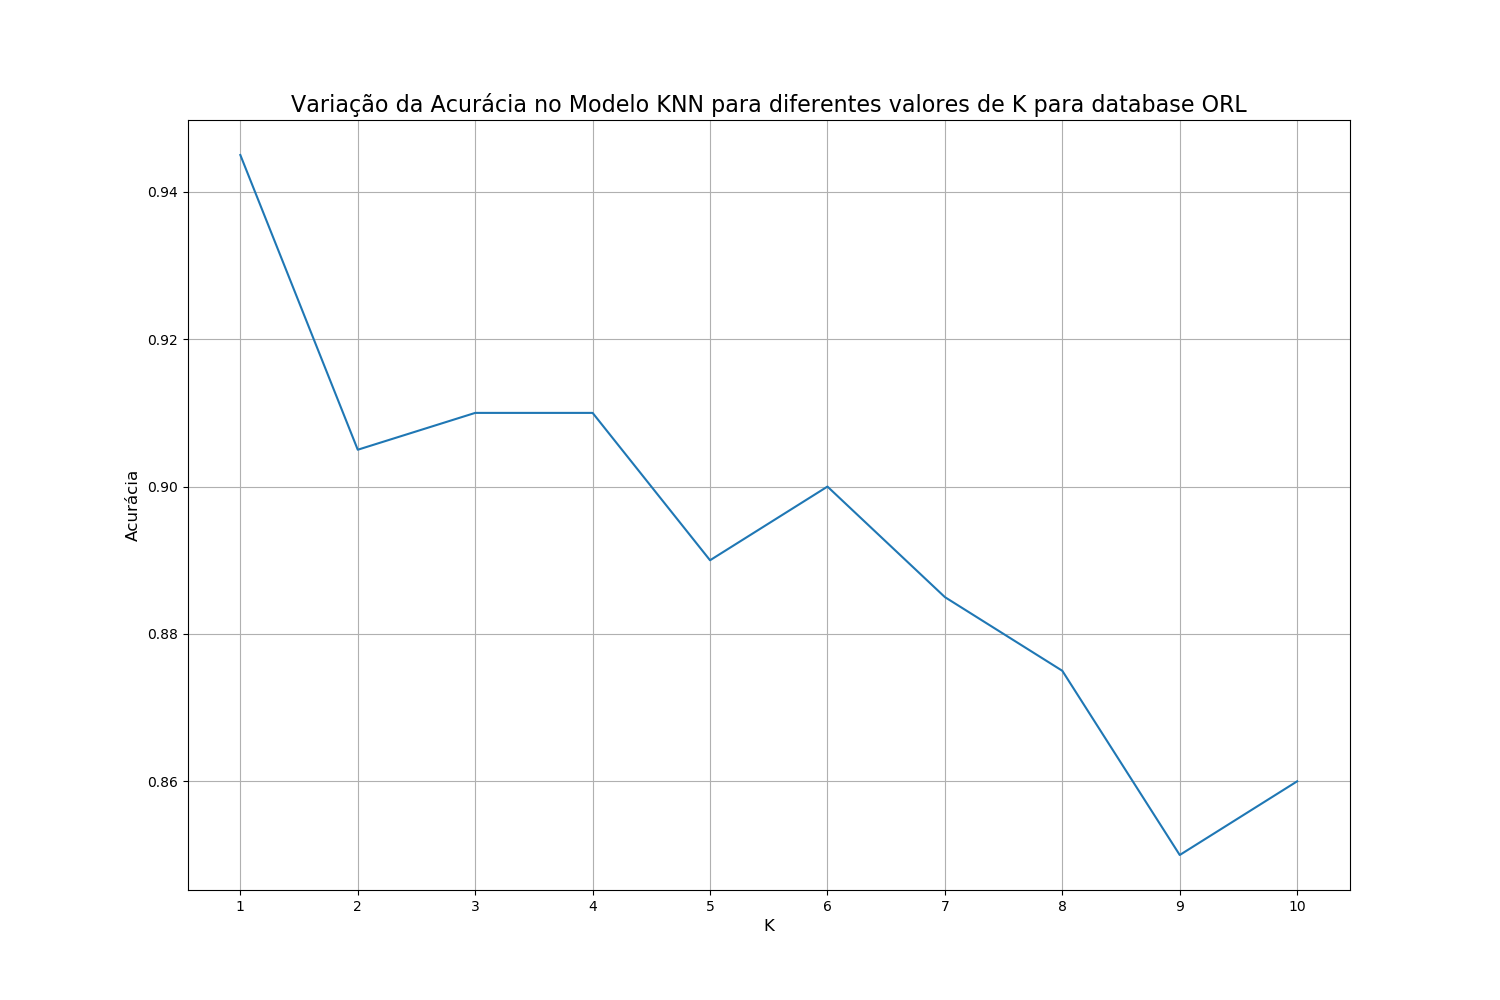
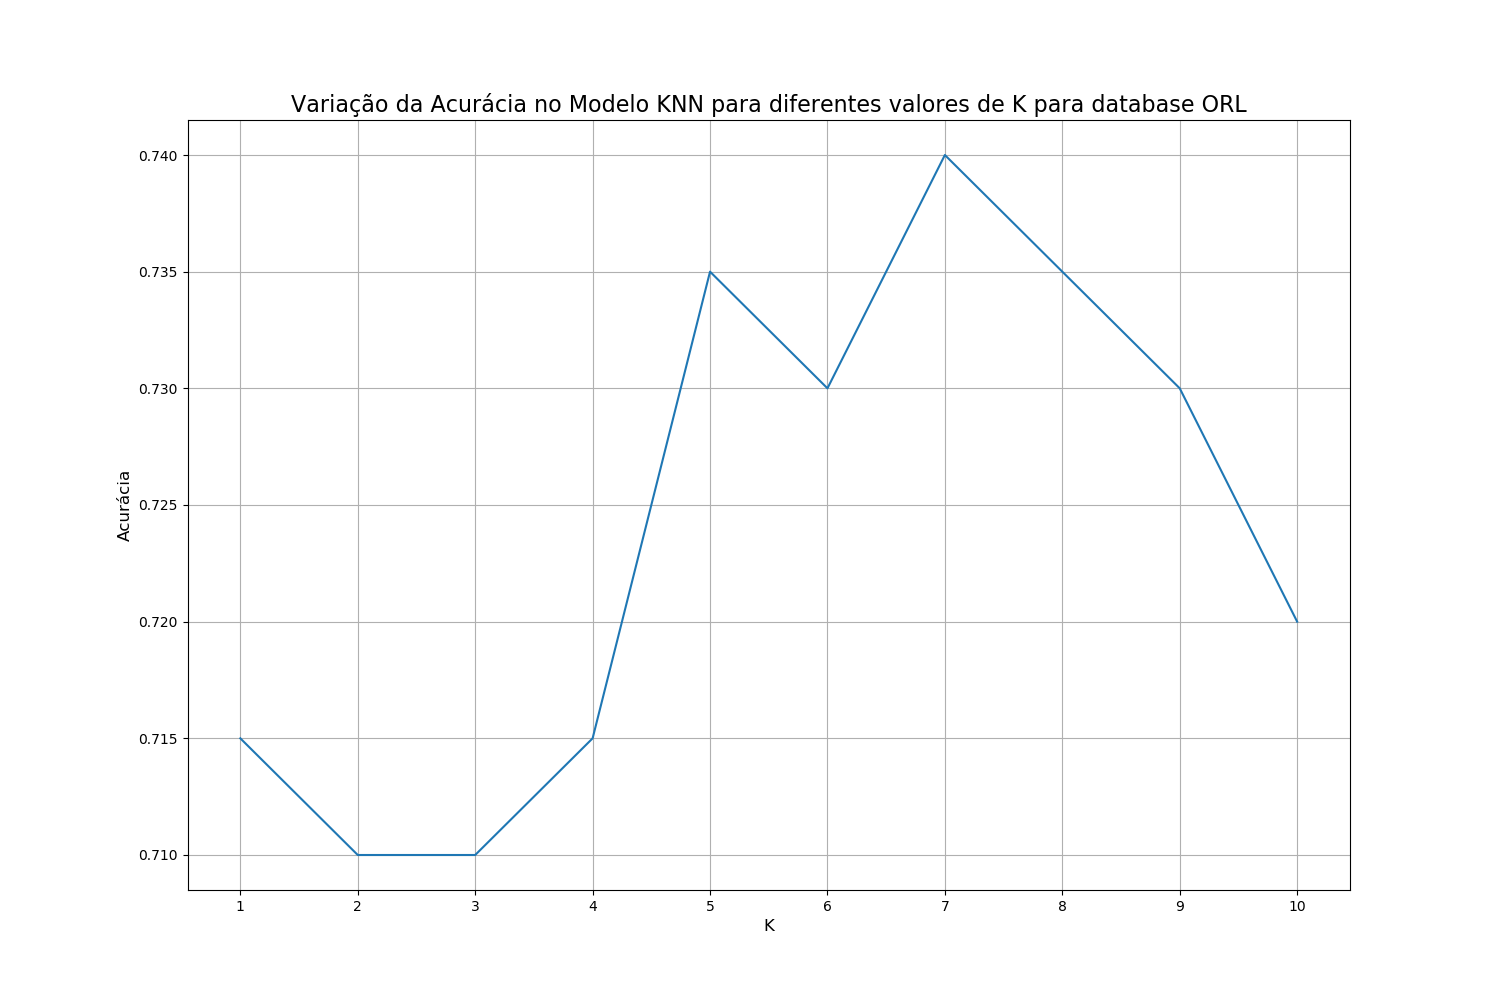
update momentum and learning rate

diff --git a/Project/classification.py b/Project/classification.py
@@ -114,10 +114,11 @@ def get_best_mlp(x, y, database_name):
     :return: a slice [layer_1_size, layer_2_size, accuracy] containing the size of the layers the yielded the model
     with the best accuracy along with the best accuracy value
     """
+    # layer1_sizes = [20, 30]
     layer1_sizes = [1, 10, 20, 30, 40, 50, 60, 70, 80, 90, 100]
 
-    momentum = 0.1
-    learning_rate = 0.001
+    momentum = 0.9
+    learning_rate = 0.1
 
     # Score to store the accuracy for each configuration
     scores = []
@@ -137,9 +138,10 @@ def get_best_mlp(x, y, database_name):
             x_train, x_test = x[train_index], x[test_index]
             y_train, y_test = y[train_index], y[test_index]
 
-            mlp = MLPClassifier(hidden_layer_sizes=(layer1_size), solver='sgd', momentum=momentum, tol=1e-4, max_iter=200, random_state=1, learning_rate='adaptive', learning_rate_init=learning_rate)
+            mlp = MLPClassifier(hidden_layer_sizes=(layer1_size), solver='sgd', momentum=momentum, tol=1e-4, max_iter=2000, random_state=1, learning_rate='adaptive', learning_rate_init=learning_rate)
             mlp.fit(x_train, y_train)
             accs.append(accuracy_score(y_test, mlp.predict(x_test)))
+
 
         acc = np.mean(accs)
         mlp1_accs.append(acc)
@@ -176,7 +178,7 @@ def get_best_mlp(x, y, database_name):
                 y_train, y_test = y[train_index], y[test_index]
 
                 mlp = MLPClassifier(hidden_layer_sizes=(layer1_size, layer2_size), solver='sgd', momentum=momentum, tol=1e-4,
-                                    max_iter=1000, random_state=1, learning_rate='adaptive',
+                                    max_iter=2000, random_state=1, learning_rate='adaptive',
                                     learning_rate_init=learning_rate)
                 mlp.fit(x_train, y_train)
                 accs.append(accuracy_score(y_test, mlp.predict(x_test)))

diff --git a/Project/main.py b/Project/main.py
@@ -47,8 +47,7 @@ else:
     save_hogs_dataset(orl_hogs, 'orl_hogs')
 
 
-x, y = get_x_and_y(orl_hogs)
-
+x, y = get_x_and_y(icmc_hogs)
 
 print("===================================== KNN  =====================================")
 
@@ -78,7 +77,7 @@ if best_layers_cfg[1] != 0:
     layers_cfg.append(best_layers_cfg[1])
 
 
-best_mlp = MLPClassifier(hidden_layer_sizes=layers_cfg, solver='sgd', momentum=momentum, tol=1e-4, max_iter=200, random_state=1, learning_rate='adaptive', learning_rate_init=learning_rate)
+best_mlp = MLPClassifier(hidden_layer_sizes=layers_cfg, solver='sgd', momentum=momentum, tol=1e-4, max_iter=2000, random_state=1, learning_rate='adaptive', learning_rate_init=learning_rate)
 mlp_description = "MLP: Layer 1 Size: %d, Layer 2 Size: %d" % (best_layers_cfg[0], best_layers_cfg[1])
 
 get_model_stats(x, y, best_mlp, mlp_description, "ORL")
